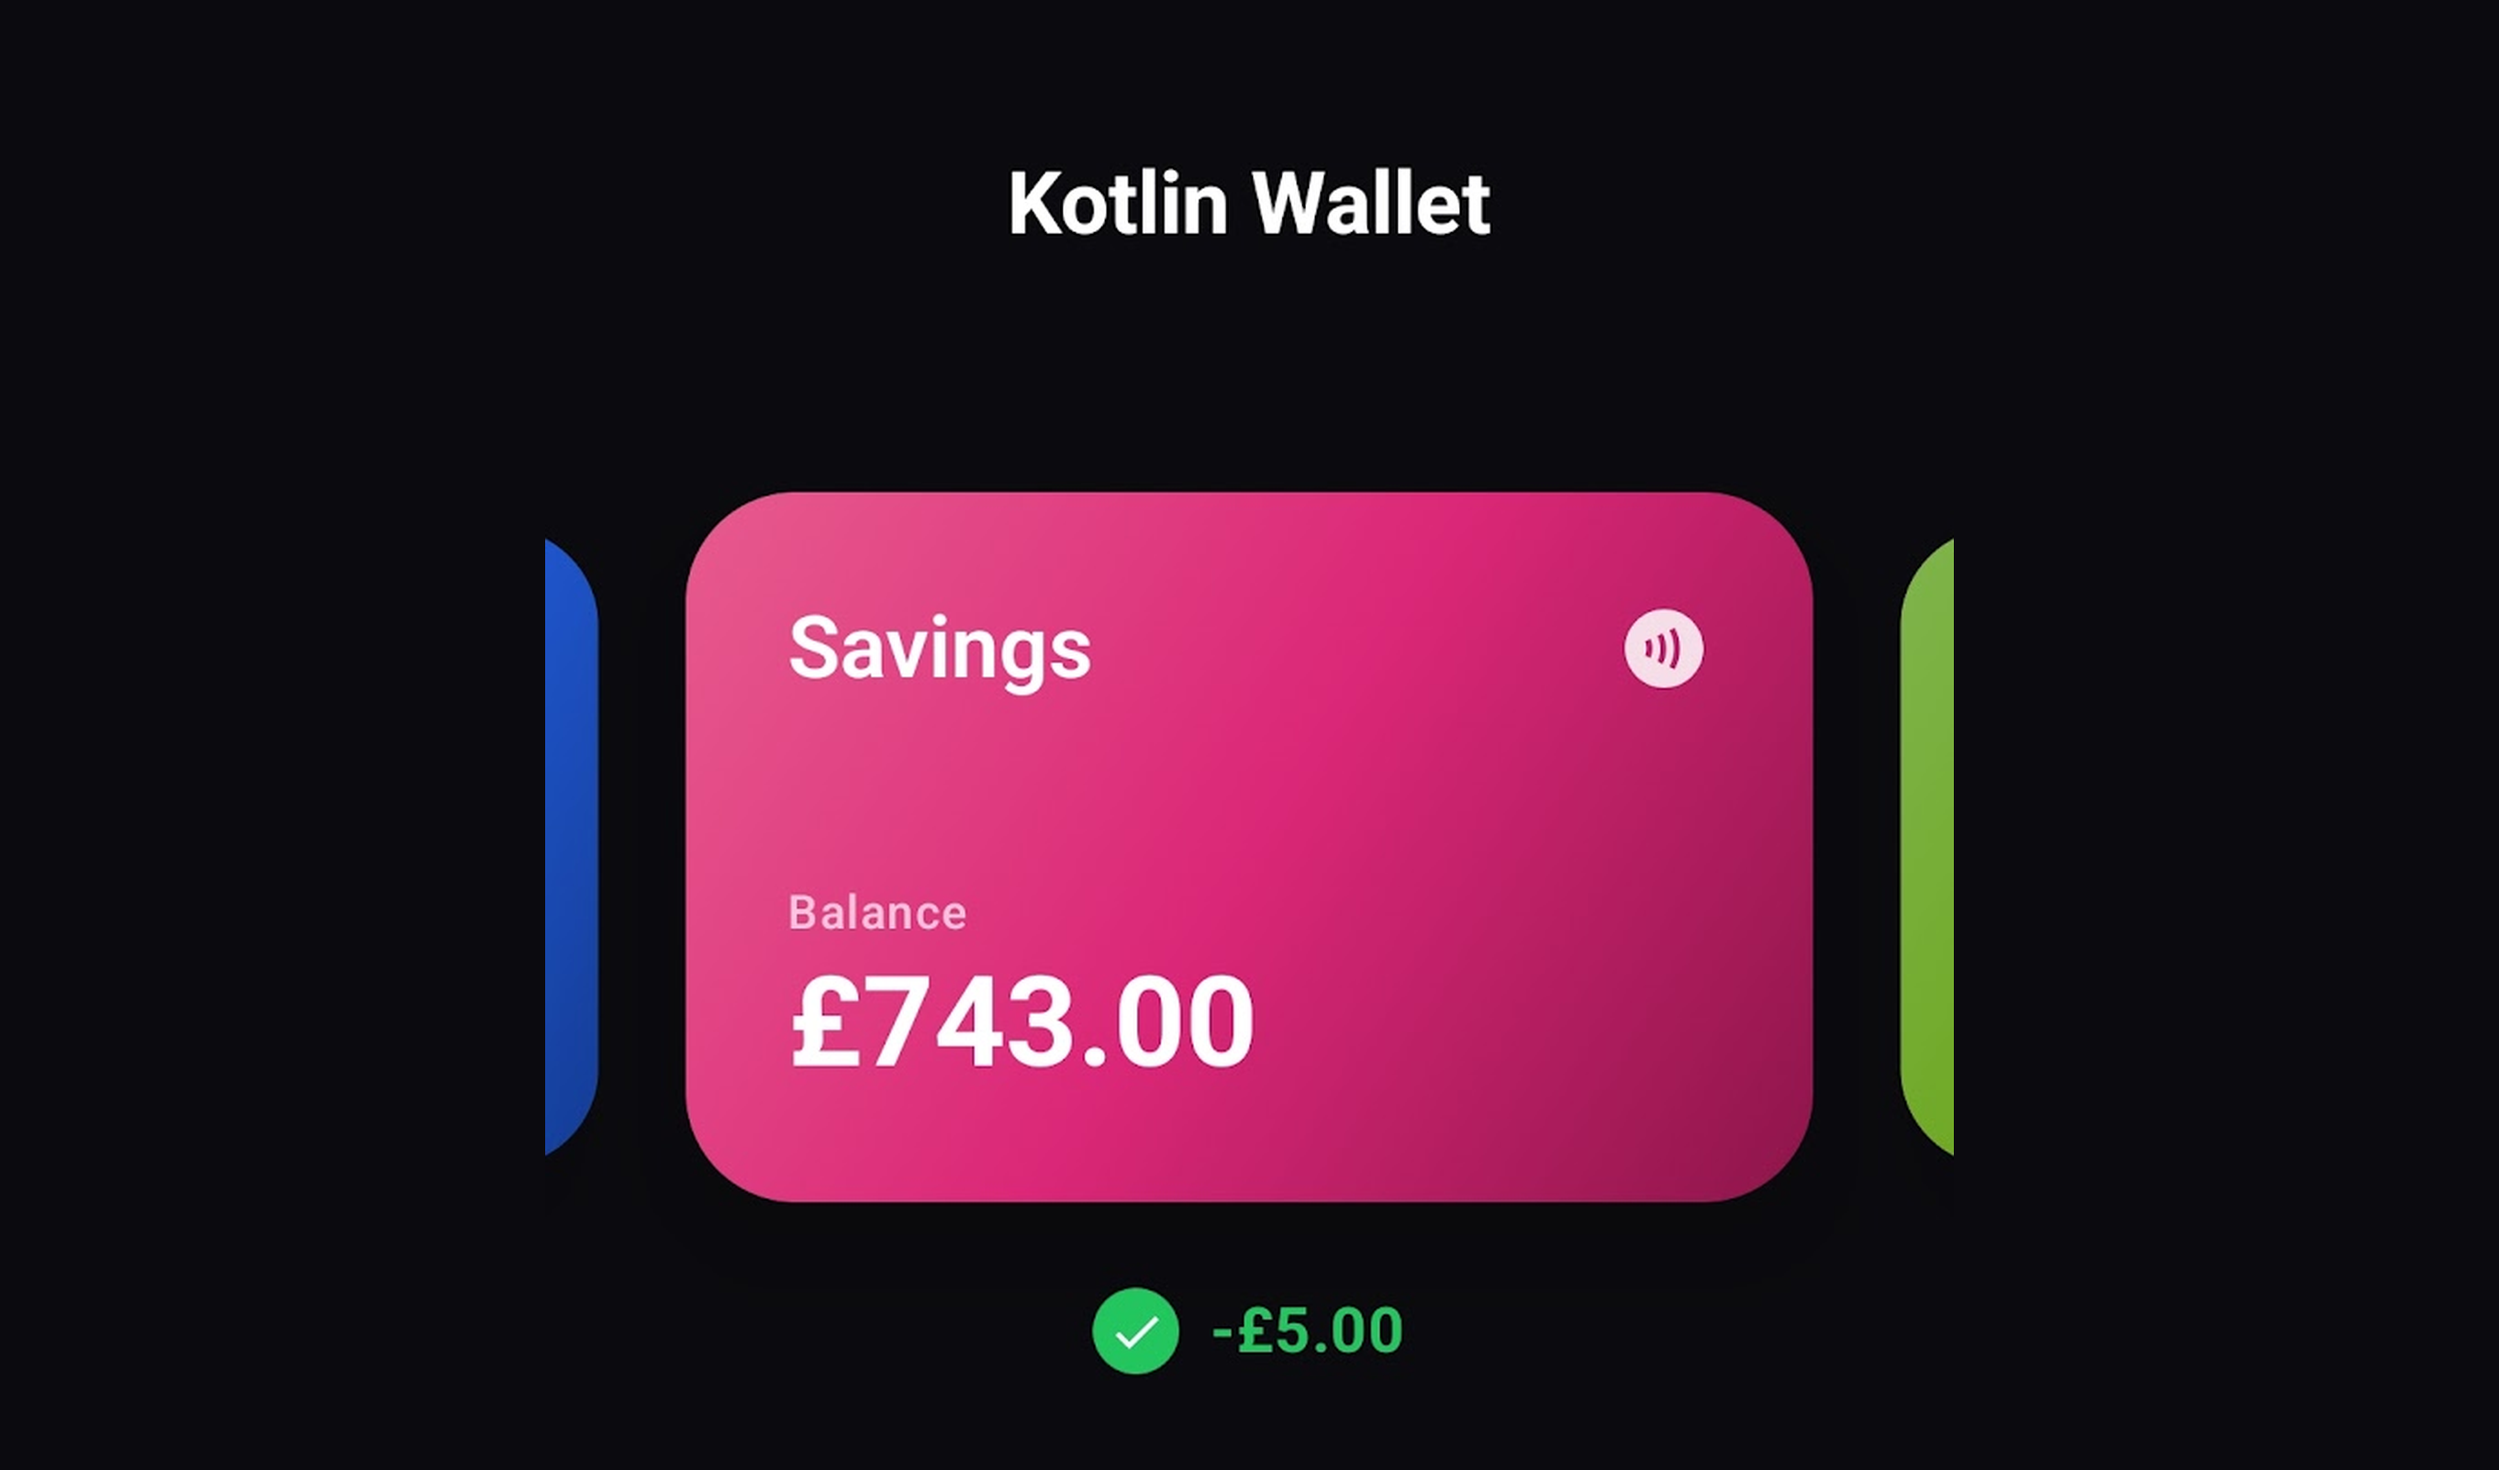
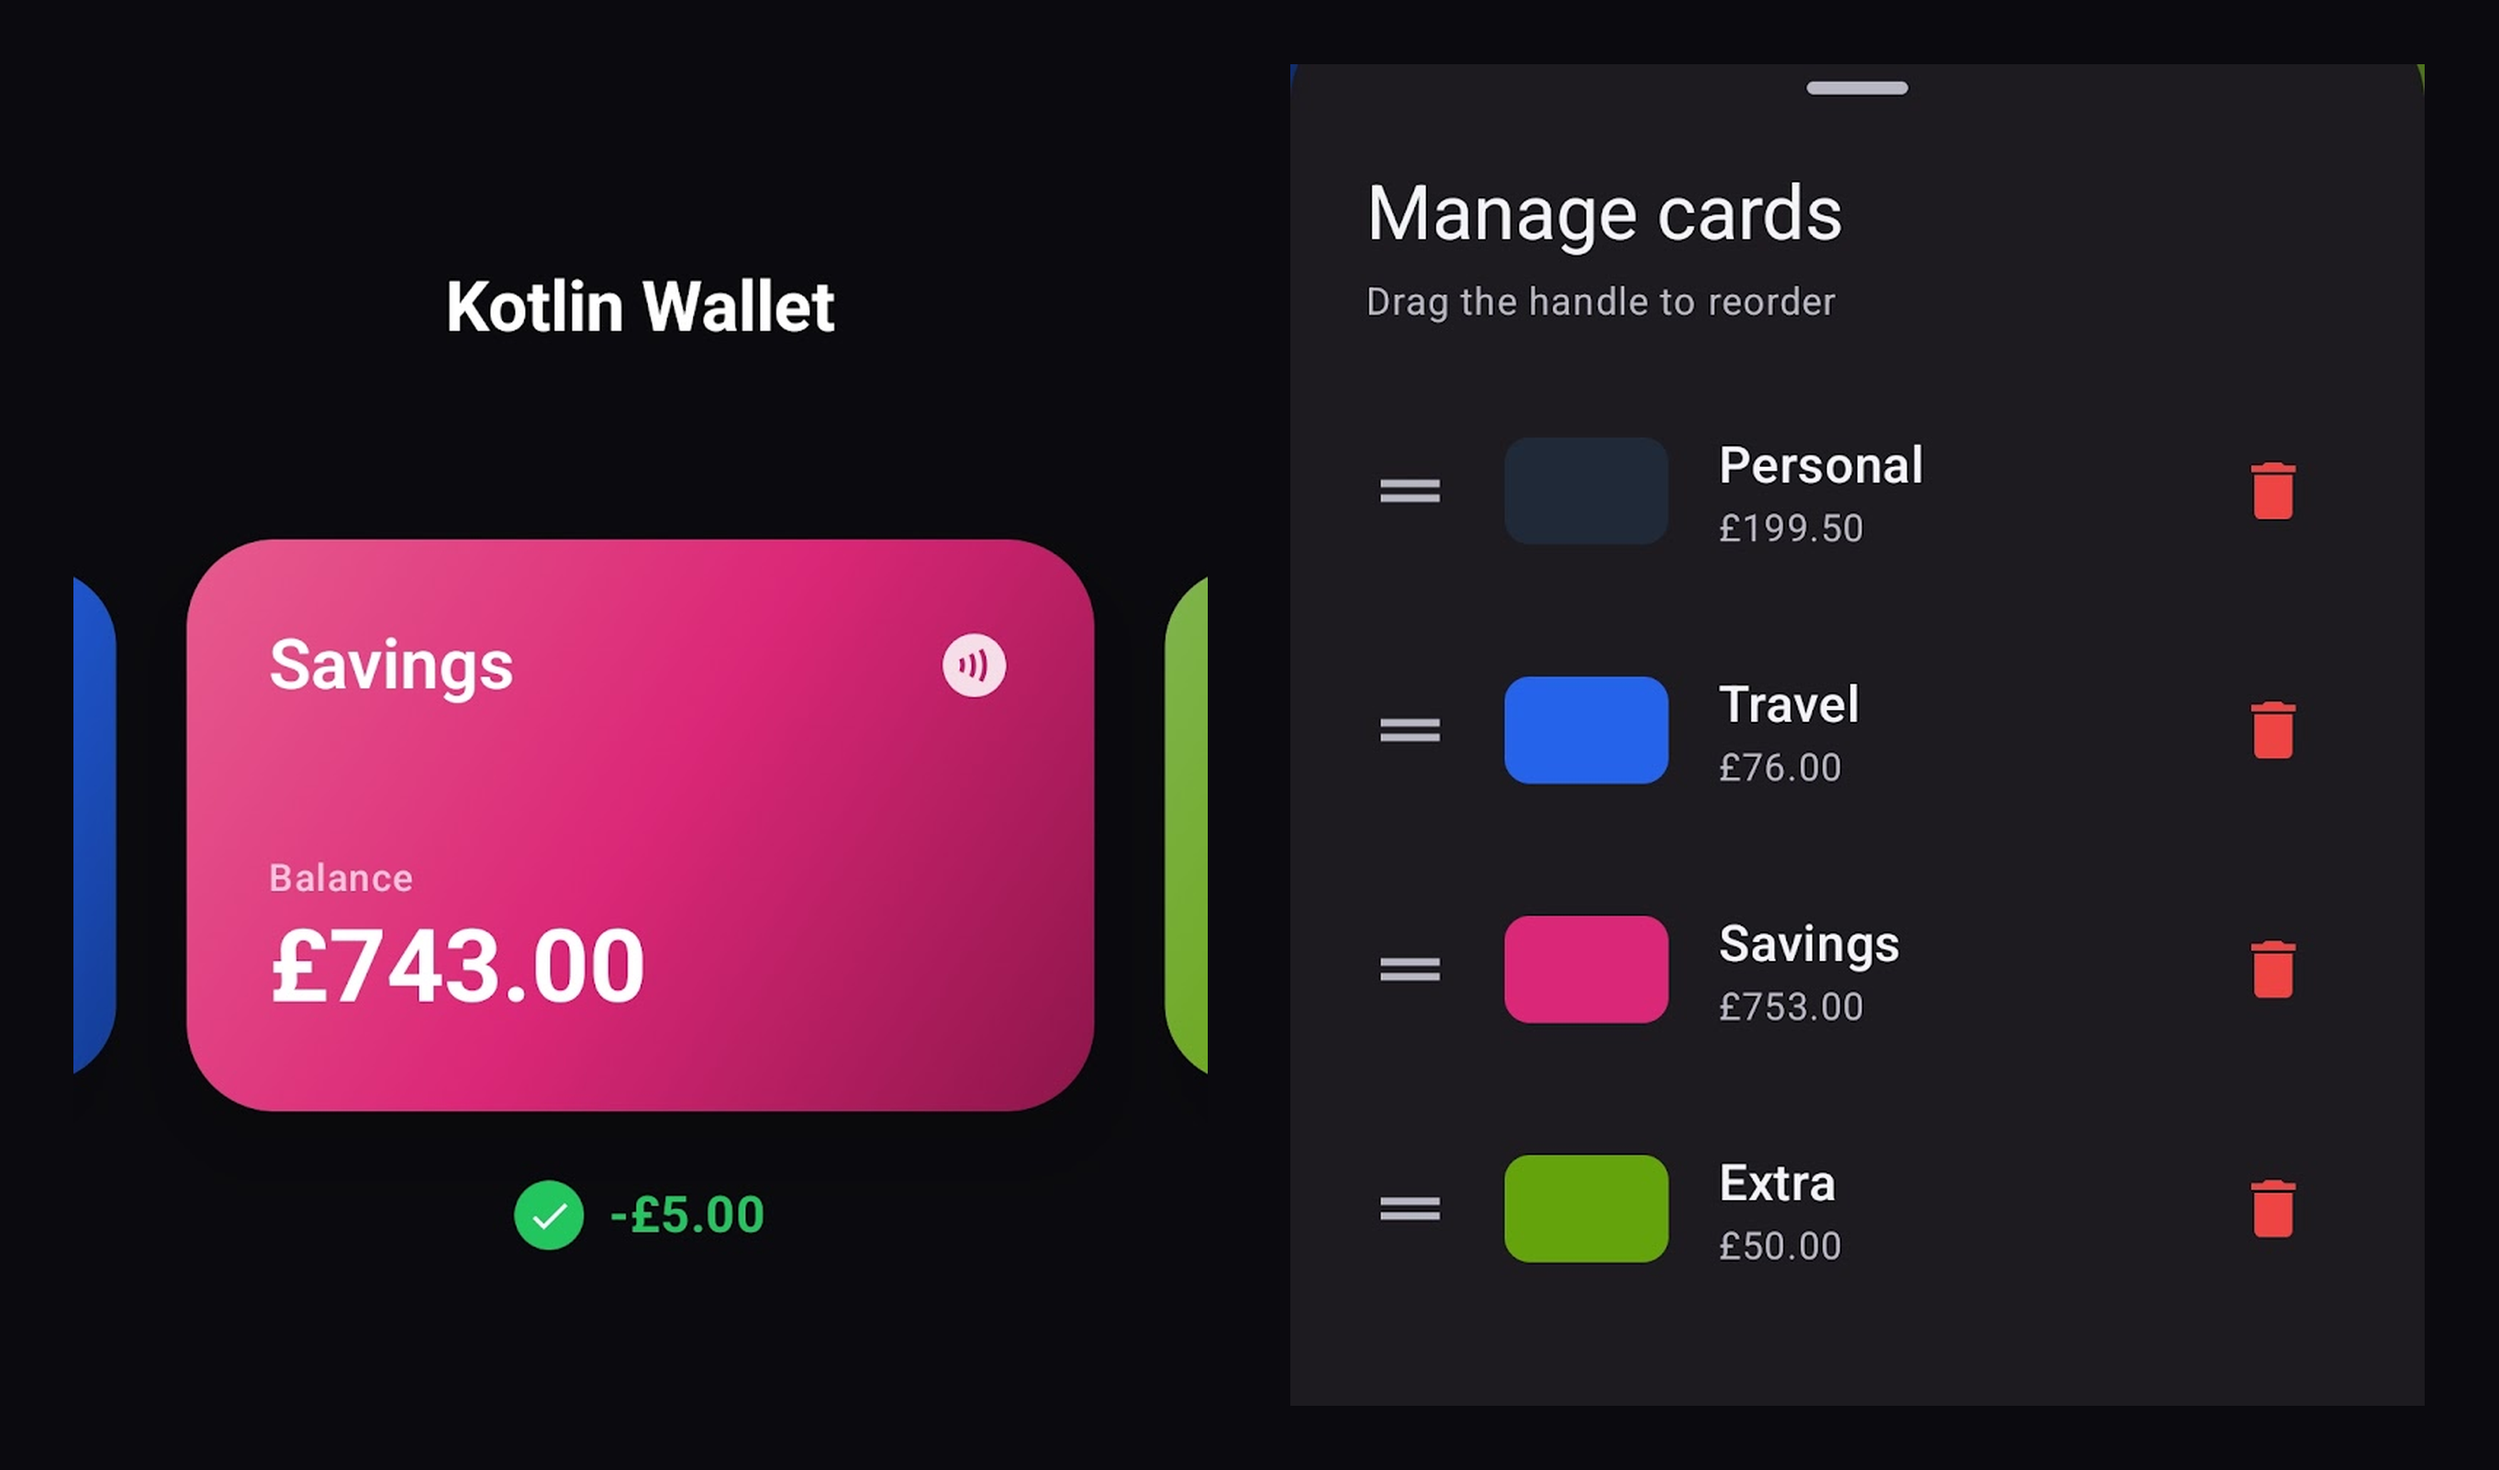
Make projects section a carousel and pair Kotlin Wallet screenshots

diff --git a/src/components/Projects.js b/src/components/Projects.js
@@ -1,4 +1,5 @@
-import React, { useState } from 'react';
+import React, { useEffect, useState } from 'react';
+import { FiChevronLeft, FiChevronRight } from 'react-icons/fi';
 
 const ProjectCard = ({ name, tagline, technologies, images, link }) => {
   const [activeImg, setActiveImg] = useState(0);
@@ -8,7 +9,7 @@ const ProjectCard = ({ name, tagline, technologies, images, link }) => {
       href={link}
       target="_blank"
       rel="noopener noreferrer"
-      className="group bg-baltic-bg rounded-[10px] overflow-hidden border border-baltic-ink/10 flex flex-col cursor-pointer transition-all duration-300 hover:-translate-y-2 hover:rotate-[-0.6deg] hover:shadow-[0_16px_34px_rgba(23,38,58,0.2)]"
+      className="group h-full bg-baltic-bg rounded-[10px] overflow-hidden border border-baltic-ink/10 flex flex-col cursor-pointer transition-all duration-300 hover:-translate-y-2 hover:rotate-[-0.6deg] hover:shadow-[0_16px_34px_rgba(23,38,58,0.2)]"
     >
       <div className="relative">
         <img
@@ -49,15 +50,15 @@ const ProjectCard = ({ name, tagline, technologies, images, link }) => {
   );
 };
 
+const getItemsPerView = () => {
+  if (typeof window === 'undefined') return 3;
+  if (window.innerWidth >= 1024) return 3;
+  if (window.innerWidth >= 768) return 2;
+  return 1;
+};
+
 const Projects = () => {
   const projects = [
-    {
-      name: 'Countrivia',
-      tagline: 'Geography quiz: map & typing challenge modes.',
-      technologies: ['JavaScript', 'HTML/CSS'],
-      images: ['/images/countrivia-1.png', '/images/countrivia-2.png'],
-      link: 'https://countriviaa.netlify.app',
-    },
     {
       name: 'Terrivia',
       tagline: 'Clue-based country identification on a live world map.',
@@ -68,7 +69,7 @@ const Projects = () => {
     {
       name: 'Kotlin Wallet',
       tagline: 'Android tap-to-pay demo: card carousel paid with blank NFC tags.',
-      technologies: ['Kotlin', 'Jetpack Compose', 'Material 3', 'Android NFC'],
+      technologies: ['Kotlin', 'Jetpack Compose', 'Android NFC'],
       images: ['/images/kotlin-wallet.png'],
       link: 'https://github.com/AdamWilkinson0/kotlinWallet',
     },
@@ -79,16 +80,84 @@ const Projects = () => {
       images: ['/images/nyse-1.png', '/images/nyse-2.png'],
       link: 'https://github.com/AdamWilkinson0/Stock-News-Sentiment-Analysis',
     },
+    {
+      name: 'Countrivia',
+      tagline: 'Geography quiz: map & typing challenge modes.',
+      technologies: ['JavaScript', 'HTML/CSS'],
+      images: ['/images/countrivia-1.png', '/images/countrivia-2.png'],
+      link: 'https://countriviaa.netlify.app',
+    },
   ];
+
+  const [itemsPerView, setItemsPerView] = useState(getItemsPerView);
+  const [index, setIndex] = useState(0);
+  const [touchStartX, setTouchStartX] = useState(null);
+
+  useEffect(() => {
+    const onResize = () => setItemsPerView(getItemsPerView());
+    window.addEventListener('resize', onResize);
+    return () => window.removeEventListener('resize', onResize);
+  }, []);
+
+  const maxIndex = Math.max(0, projects.length - itemsPerView);
+
+  useEffect(() => {
+    setIndex((i) => Math.min(i, maxIndex));
+  }, [maxIndex]);
+
+  const move = (delta) => setIndex((i) => Math.min(Math.max(i + delta, 0), maxIndex));
+
+  const onTouchEnd = (e) => {
+    if (touchStartX === null) return;
+    const distance = touchStartX - e.changedTouches[0].clientX;
+    if (Math.abs(distance) > 50) move(distance > 0 ? 1 : -1);
+    setTouchStartX(null);
+  };
+
+  const arrowClass =
+    'w-9 h-9 flex items-center justify-center rounded-full border border-baltic-ink/15 text-baltic-ink transition-colors duration-200 hover:bg-baltic-bg disabled:opacity-30 disabled:cursor-not-allowed disabled:hover:bg-transparent';
 
   return (
     <section id="projects" className="bg-baltic-surface py-16 lg:py-20 px-6 sm:px-10 lg:px-14 scroll-mt-16">
       <div className="container mx-auto">
-        <h2 className="font-mono font-bold text-[26px] text-baltic-ink mb-8">Projects</h2>
-        <div className="grid grid-cols-1 md:grid-cols-2 lg:grid-cols-3 gap-6">
-          {projects.map((project, index) => (
-            <ProjectCard key={index} {...project} />
-          ))}
+        <div className="flex items-center justify-between mb-8">
+          <h2 className="font-mono font-bold text-[26px] text-baltic-ink">Projects</h2>
+          {maxIndex > 0 && (
+            <div className="flex gap-2">
+              <button
+                onClick={() => move(-1)}
+                disabled={index === 0}
+                className={arrowClass}
+                aria-label="Previous projects"
+              >
+                <FiChevronLeft size={18} />
+              </button>
+              <button
+                onClick={() => move(1)}
+                disabled={index === maxIndex}
+                className={arrowClass}
+                aria-label="Next projects"
+              >
+                <FiChevronRight size={18} />
+              </button>
+            </div>
+          )}
+        </div>
+        <div
+          className="overflow-hidden -mx-3 -my-3 py-3"
+          onTouchStart={(e) => setTouchStartX(e.touches[0].clientX)}
+          onTouchEnd={onTouchEnd}
+        >
+          <div
+            className="flex transition-transform duration-500 ease-out"
+            style={{ transform: `translateX(-${index * (100 / itemsPerView)}%)` }}
+          >
+            {projects.map((project, i) => (
+              <div key={i} className="flex-none px-3" style={{ width: `${100 / itemsPerView}%` }}>
+                <ProjectCard {...project} />
+              </div>
+            ))}
+          </div>
         </div>
       </div>
     </section>
